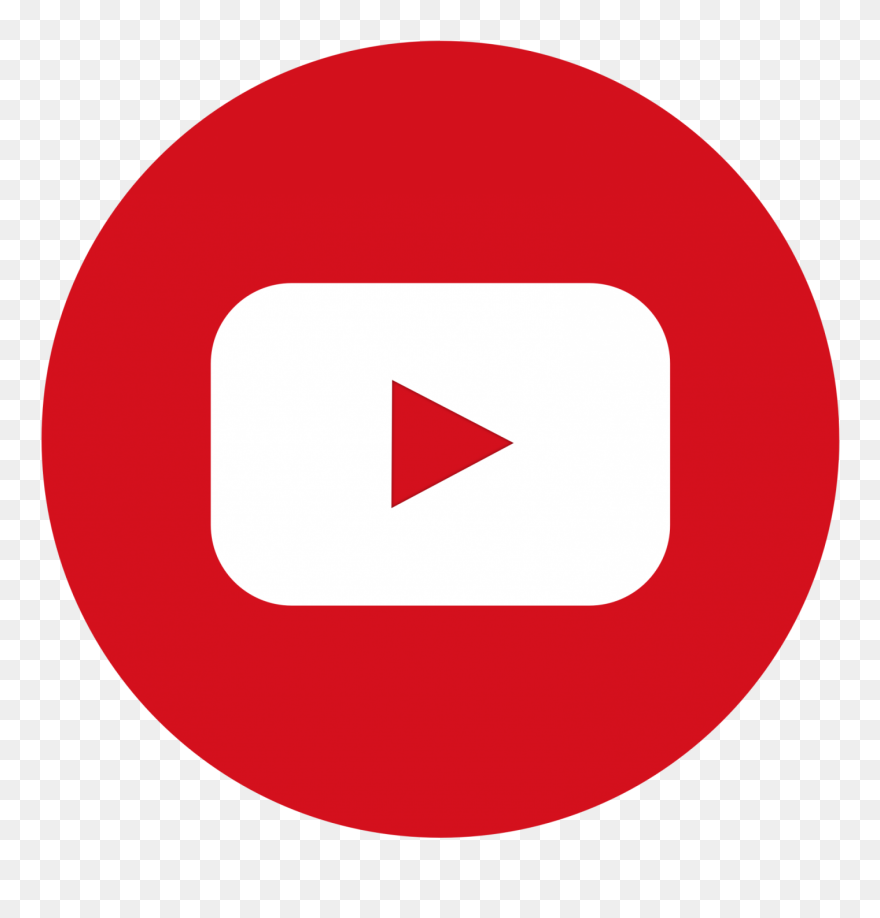
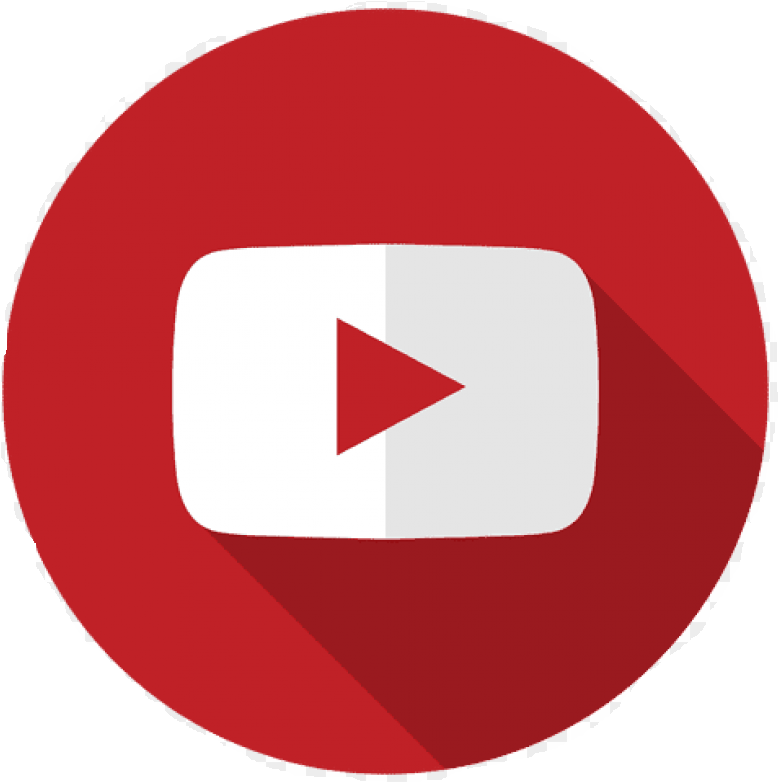
Nova ikona za kontakt na YouTube kanalu. Popravljen scroll prilikom odabira partije za pregled i ploča za pregled prilagođena mobilnim uređajima

diff --git a/scss/_ploca.scss b/scss/_ploca.scss
@@ -46,6 +46,10 @@
   flex-direction: column;
 }
 
+.tekstIznadPloce {
+  scroll-margin-top: 2em;
+}
+
 #tablica {
   width: 65%;
   border-collapse: collapse;
@@ -187,6 +191,8 @@ footer {
 
   .podaci {
     width: 20rem;
+    font-size: 1rem;
+    height: 10rem;
   }
 
   .pretinacPodataka {
@@ -199,9 +205,8 @@ footer {
       margin-top: 1em;
       padding-bottom: 1em;
     }
-
-    .plocaIPotezi {
-      flex-direction: column;
-    }
+  }
+  .plocaIPotezi {
+    flex-direction: column;
   }
 }

diff --git a/styles/main.css b/styles/main.css
@@ -498,6 +498,10 @@ footer {
   flex-direction: column;
 }
 
+.tekstIznadPloce {
+  scroll-margin-top: 2em;
+}
+
 #tablica {
   width: 65%;
   border-collapse: collapse;
@@ -639,6 +643,8 @@ footer {
 
   .podaci {
     width: 20rem;
+    font-size: 1rem;
+    height: 10rem;
   }
 
   .pretinacPodataka {
@@ -651,7 +657,8 @@ footer {
   .pretinacPodataka .pretinacPloce h2 {
     margin-bottom: 1em;
   }
-  .pretinacPodataka .plocaIPotezi {
+
+  .plocaIPotezi {
     flex-direction: column;
   }
 }

diff --git a/scripts/modules/kontrolaPloce.js b/scripts/modules/kontrolaPloce.js
@@ -146,10 +146,8 @@ function odaberiPartiju(object) {
   console.log(brojPoteza);
   osvjeziGumbe();
   osvjeziPlocu();
-  console.log(document.querySelector(".tekstIznadPloce"));
-  document.querySelector(".tekstIznadPloce").scrollIntoView();
-  console.log("prosao scroll");
   document.querySelector(".pretinacPloce").style.display = "flex";
+  document.querySelector(".tekstIznadPloce").scrollIntoView();
 }
 
 function prikazStraniceTablice(brojStranice) {
